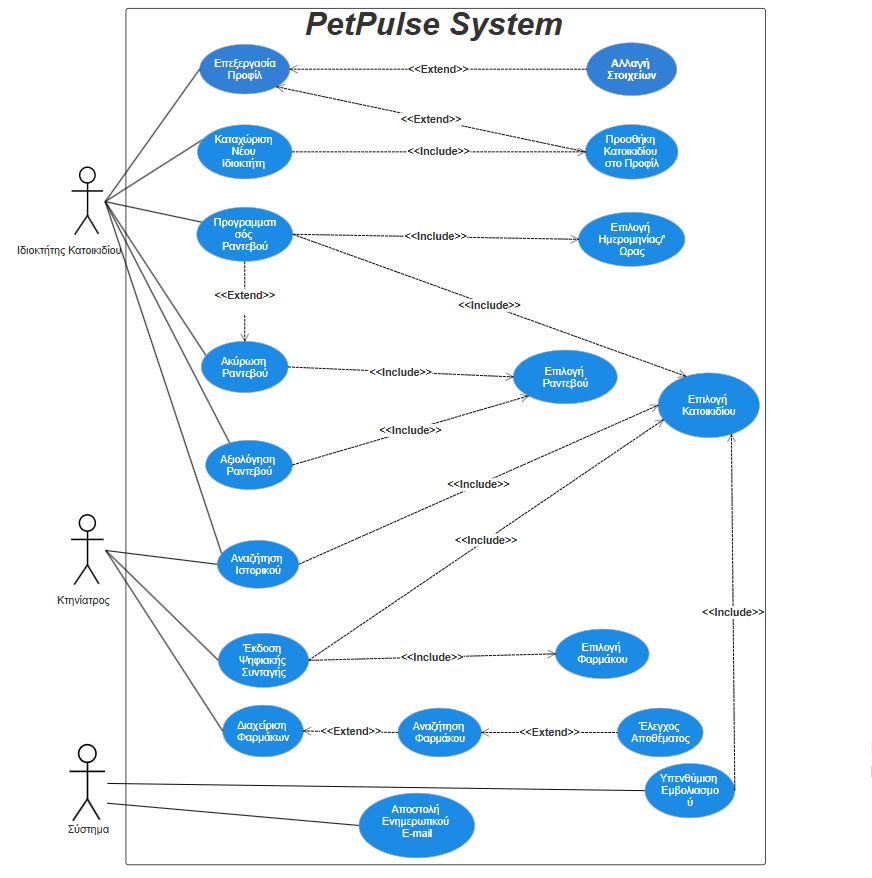
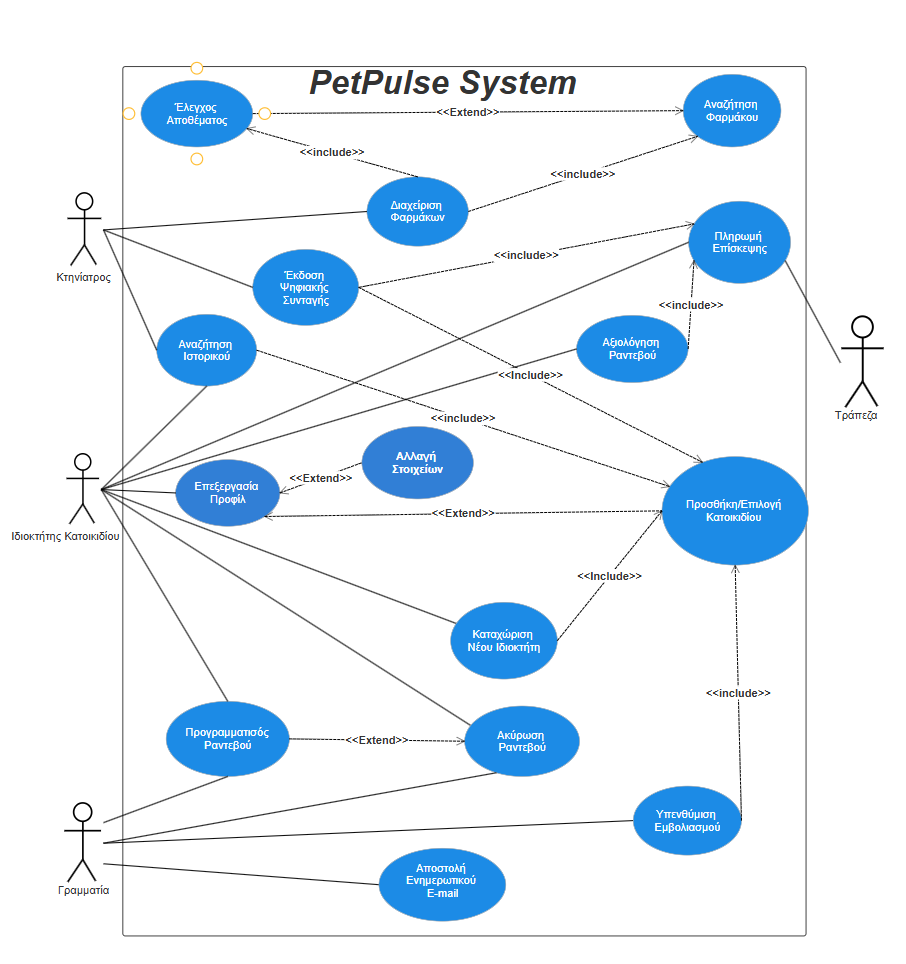
Add Pet class with attributes and methods for managing medical records

Changed region(s): [[0.0, 0.0, 0.9599, 1.0], [0.4025, 0.6765, 0.4644, 0.7073]]

diff --git a/Pet.java b/Pet.java
@@ -1,0 +1,23 @@
+import java.util.ArrayList;
+import java.util.List;
+
+public class Pet {
+    private String name;
+    private String species; // π.χ. σκύλος, γάτα κλπ.
+    private List<String> medicalHistory; // εμβόλια, ιστορικό παθήσεων
+
+    public Pet(String name, String species) {
+        this.name = name;
+        this.species = species;
+        this.medicalHistory = new ArrayList<>(); // ξεκινάει πάντα άδειο
+    }
+
+    // Καλείται από το backend όταν ο κτηνίατρος γράφει νέα διάγνωση/εμβόλιο
+    public void addMedicalRecord(String record) {
+        this.medicalHistory.add(record);
+    }
+
+    public String getName() { return name; }
+    public String getSpecies() { return species; }
+    public List<String> getMedicalHistory() { return medicalHistory; }
+}
